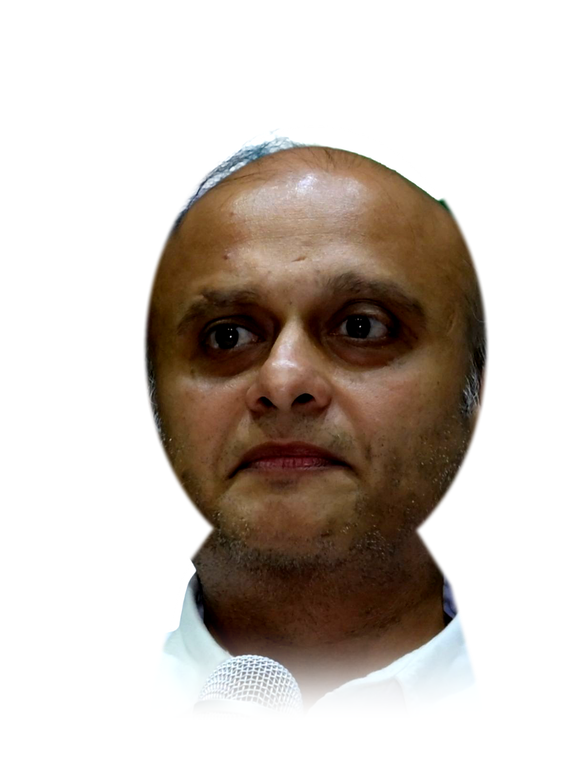
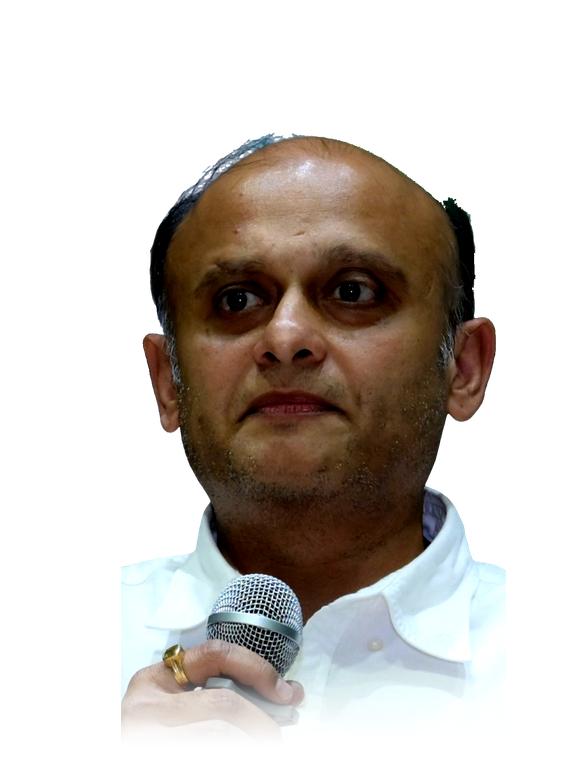
Clean up the Virendra Somwanshi and Bony Niranjan Dalal cut-outs
Virendra's traced outline carried a halo of the window behind his hair and
had lost the top of it; the outline now follows the hair and the window is
trimmed from a band along it, with nothing touched below the eyes, where
the haze is close enough to skin that trimming ate the cheeks.

Bony's photograph turned out to have arrived from the client already cut
out, so the hand-drawn ellipse that was clipping his head and letting a
strip of backdrop through above it is gone: the file's own alpha is used,
shoulders and microphone included, with a green object behind one ear
keyed away.

Changed region(s): [[0.1837, 0.1531, 0.8571, 0.949]]

diff --git a/src/content/home.ts b/src/content/home.ts
@@ -537,9 +537,11 @@ export const mentorsIntro = {
  * picture every outlet ran. Deepak Chitnis's official Lodha Group portrait
  * is the same 375px file Drive already had, and nothing larger is
  * published. Bony Niranjan Dalal has no photograph online at all, so his is
- * still Drive's conference close-up, which stops at the shoulders. None of
- * these photographs is the client's own and none is licensed to 8X;
- * publishing them needs the subjects' or the publishers' say-so.
+ * still Drive's conference close-up — which arrived already cut out, and is
+ * used with its own alpha, microphone and all, since cropping the
+ * microphone away leaves a head with nothing under it. None of these
+ * photographs is the client's own and none is licensed to 8X; publishing
+ * them needs the subjects' or the publishers' say-so.
  *
  * The files in `public/images/mentors/` are cut out and set on the card's
  * own 588 × 784 canvas so that every mentor card is the team card: the
